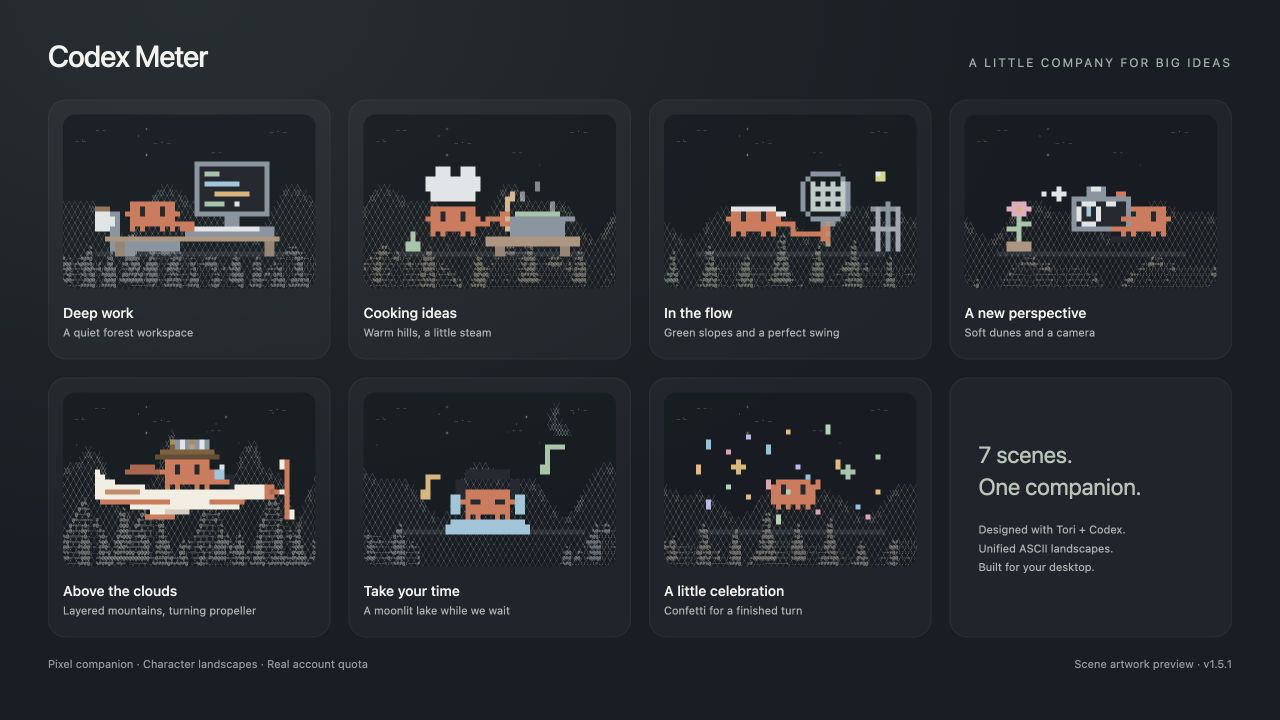
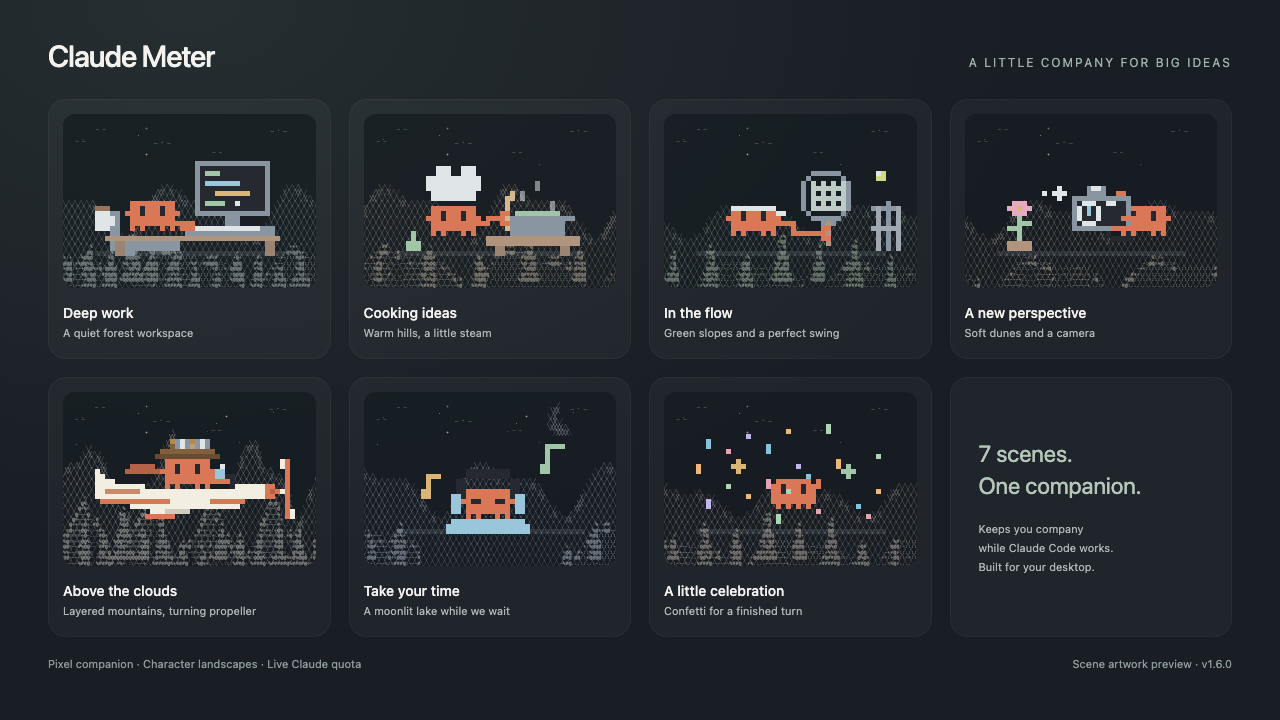
Rebrand scene overview and dev pages to Claude Meter

diff --git a/dev/export-scenes.html b/dev/export-scenes.html
@@ -1,11 +1,11 @@
-<!doctype html><html lang="en"><meta charset="utf-8"><title>Codex Meter · Scene previews</title>
+<!doctype html><html lang="en"><meta charset="utf-8"><title>Claude Meter · Scene previews</title>
 <style>
 *{box-sizing:border-box}html,body{margin:0;width:1280px;height:720px;overflow:hidden;background:#191d24;color:#f3f2ee;font-family:-apple-system,BlinkMacSystemFont,sans-serif}main{height:720px;padding:38px 48px;background:radial-gradient(ellipse at 15% 0,#303d3c88,transparent 55%)}header{display:flex;justify-content:space-between;align-items:baseline;margin-bottom:26px}h1{margin:0;font-size:30px;font-weight:500;letter-spacing:-1px}.eyebrow{color:#9eb3a9;font-size:12px;letter-spacing:2px}.grid{display:grid;grid-template-columns:repeat(4,1fr);gap:18px}.tile{padding:14px;background:#ffffff08;border:1px solid #ffffff0b;border-radius:18px;height:260px}canvas{display:block;width:100%;height:174px;background:#151c2377;border-radius:12px;image-rendering:pixelated}h2{font-size:14px;font-weight:500;margin:16px 0 5px}p{font-size:11px;color:#aeb7b6;margin:0}.note{display:flex;flex-direction:column;justify-content:center;padding:28px;color:#b3c6b8}.note b{font-size:23px;font-weight:400;line-height:1.4}.note p{line-height:1.7;margin-top:18px}.solo{display:flex;flex-direction:column;align-items:center}.solo canvas{width:960px;height:440px;margin-top:15px}.solo h2{font-size:24px;margin-top:24px}.solo p{font-size:14px}.bottom{margin-top:20px;display:flex;justify-content:space-between;color:#8e9b9d;font-size:11px}
-</style><main><header><h1>Codex Meter</h1><span class="eyebrow">A LITTLE COMPANY FOR BIG IDEAS</span></header><div id="scenes"></div><div class="bottom"><span>Pixel companion · Character landscapes · Real account quota</span><span>Scene artwork preview · v1.5.1</span></div></main>
+</style><main><header><h1>Claude Meter</h1><span class="eyebrow">A LITTLE COMPANY FOR BIG IDEAS</span></header><div id="scenes"></div><div class="bottom"><span>Pixel companion · Character landscapes · Live Claude quota</span><span>Scene artwork preview · v1.6.0</span></div></main>
 <script src="../ui/pattern-field.js"></script><script src="../ui/texture.js"></script><script src="../ui/pet.js"></script>
 <script>
 const scenes=[['typing','Deep work','A quiet forest workspace'],['cooking','Cooking ideas','Warm hills, a little steam'],['tennis','In the flow','Green slopes and a perfect swing'],['photo','A new perspective','Soft dunes and a camera'],['flight','Above the clouds','Layered mountains, turning propeller'],['music','Take your time','A moonlit lake while we wait'],['done','A little celebration','Confetti for a finished turn']];
 const selected=new URLSearchParams(location.search).get('scene');const list=selected?scenes.filter(s=>s[0]===selected):scenes;const root=document.querySelector('#scenes');root.className=selected?'solo':'grid';
 for(const [scene,title,caption] of list){const tile=document.createElement('section');if(!selected)tile.className='tile';const canvas=document.createElement('canvas');canvas.setAttribute('aria-label',title);tile.append(canvas);const h=document.createElement('h2');h.textContent=title;tile.append(h);const p=document.createElement('p');p.textContent=caption;tile.append(p);root.append(tile);CrabPet.draw(canvas,{scene,time:1200,theme:'dark',reduced:false});}
-if(!selected){const note=document.createElement('section');note.className='tile note';note.innerHTML='<b>7 scenes.<br>One companion.</b><p>Designed with Tori + Codex.<br>Unified ASCII landscapes.<br>Built for your desktop.</p>';root.append(note);}
+if(!selected){const note=document.createElement('section');note.className='tile note';note.innerHTML='<b>7 scenes.<br>One companion.</b><p>Keeps you company<br>while Claude Code works.<br>Built for your desktop.</p>';root.append(note);}
 </script></html>

diff --git a/dev/pet-preview.html b/dev/pet-preview.html
@@ -1,9 +1,9 @@
-<!doctype html><html lang="zh-CN"><meta charset="utf-8"><title>Codex Meter · 动作预览</title>
+<!doctype html><html lang="zh-CN"><meta charset="utf-8"><title>Claude Meter · 动作预览</title>
 <style>
 *{box-sizing:border-box}body{margin:0;padding:28px;background:#22262e;color:#eee;font-family:-apple-system,system-ui,sans-serif}h1{font-size:21px;font-weight:500;margin:0 0 20px}.grid{display:grid;grid-template-columns:repeat(3,1fr);gap:18px;max-width:950px}.tile{background:#343b46;border-radius:18px;padding:16px}canvas{display:block;width:100%;height:156px;image-rendering:pixelated}h2{font-size:15px;margin:8px 0;font-weight:500}p{font-size:12px;color:#ccd3dc}button{font:inherit;padding:8px 12px}nav{display:flex;gap:16px;margin-top:24px}a{color:#aad1e8}footer{margin-top:22px;color:#b8c3cb;font-size:12px}
 </style><h1>小螃蟹 · 忙碌 / 等待 / 庆祝</h1><div class="grid"></div>
 <nav><button id="pause">暂停动画</button><a href="../ui/index.html?activity=working">完整面板</a><a href="../ui/index.html?activity=waiting&mini=1">迷你等待</a><a href="../ui/index.html?activity=done&mini=1">完成导航</a><a href="../ui/index.html?minimized=1">最小化</a></nav>
-<footer>Codex 桌面伴侣 · 此页为演示数据</footer>
+<footer>Claude 桌面伴侣 · 此页为演示数据</footer>
 <script src="../ui/pattern-field.js"></script>
 <script src="../ui/texture.js"></script><script src="../ui/pet.js"></script><script>
 const scenes=[['typing','打电脑','键盘敲击、屏幕代码与咖啡'],['cooking','做饭','厨师帽、搅拌与冒热气的锅'],['tennis','打网球','球拍、挥拍与来回运动的球'],['photo','拍照','举起相机、镜头与轻微闪光'],['flight','开飞机','飞行帽、螺旋桨、字符雪山与树林'],['music','听歌等待','耳机、轻轻摇摆与音符'],['done','完成撒花','小螃蟹跳起与彩色纸屑']];

diff --git a/ui/pet.js b/ui/pet.js
@@ -1,5 +1,5 @@
 // Original Clawd pixel silhouette © 2026 Bon Yeung (Claude-Meter).
-// Local Codex adaptation: activity scenes, props, and shared animation renderer.
+// Local adaptation: activity scenes, props, and shared animation renderer.
 (() => {
   const busy = ['typing', 'cooking', 'tennis', 'photo', 'flight'];
   const titles = { typing:'小螃蟹在打电脑', cooking:'小螃蟹在做饭', tennis:'小螃蟹在打网球', photo:'小螃蟹举起相机拍照', flight:'小螃蟹开飞机', music:'听听歌，等你回来', done:'完成啦，撒花！', pause:'小螃蟹休息一下', unknown:'稍候片刻' };

diff --git a/ui/meter.css b/ui/meter.css
@@ -1,4 +1,4 @@
-/* Codex Meter — native macOS glass, with Bon Yeung's original pixel character. */
+/* Claude Meter — native macOS glass, with Bon Yeung's original pixel character. */
 :root, :root[data-theme="dark"] {
   color-scheme:dark;
   --bg:rgba(25,27,31,.08); --bg-2:rgba(0,0,0,.10);

diff --git a/Meter.swift b/Meter.swift
@@ -1,4 +1,4 @@
-// Claude adaptation of Claude Meter. Original UI © 2026 Bon Yeung.
+// Claude Meter. Based on Bon Yeung's Claude-Meter; original UI © 2026 Bon Yeung.
 import Cocoa
 import WebKit
 import ServiceManagement
